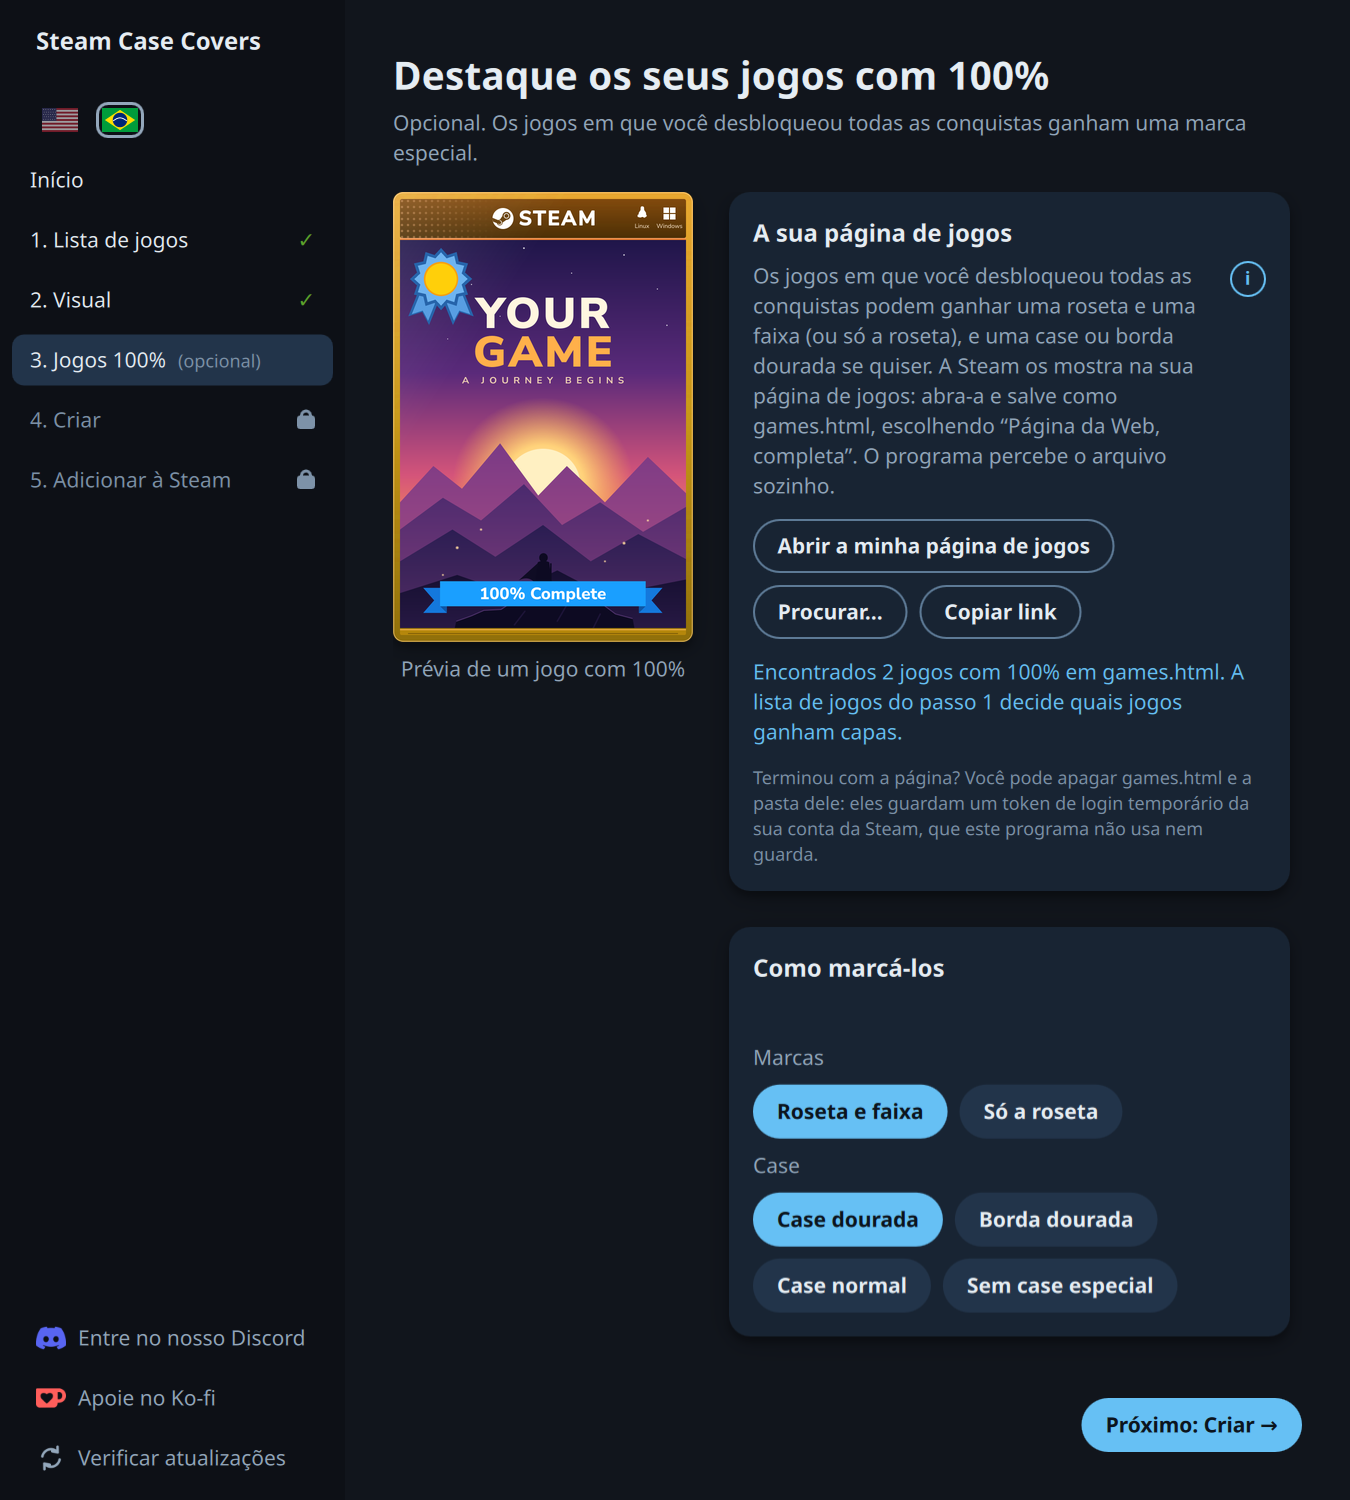
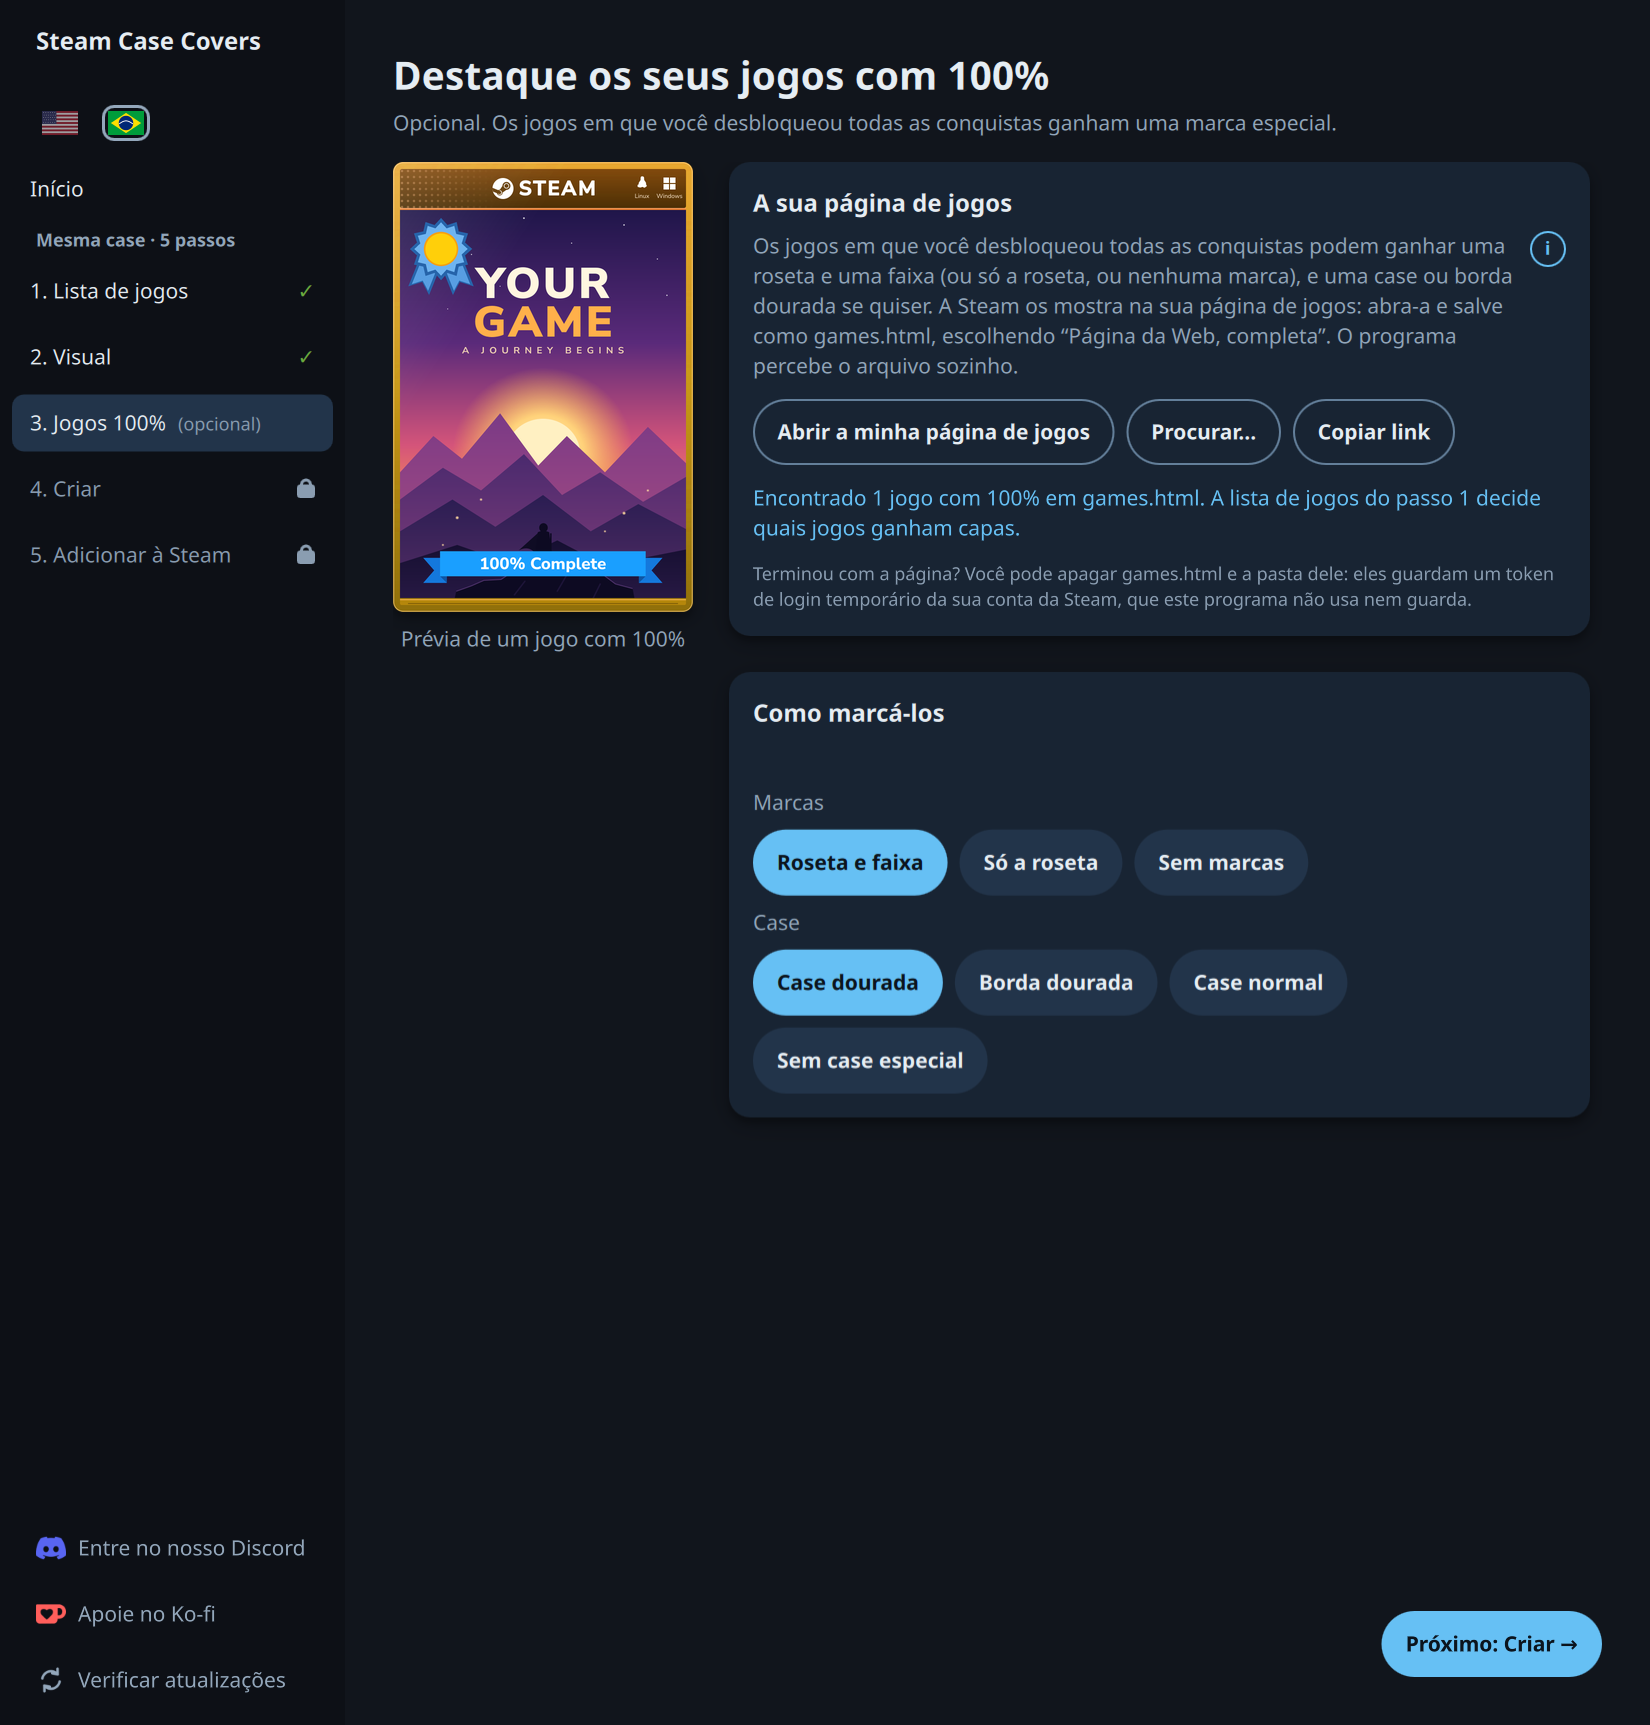
docs: new README screenshots in both languages, and the README text brought up to date (#54)
* feat(tools): a script that takes the README screenshots, with a test that it still runs

* docs: qtui/README.md says what is true now, the features line names touch and contrast

* fix(tools): the Home picture is the first-time Home, the case pictures are wide and tall enough

* fix(tools): take Home and Look in both languages before the 100% step loads a page

* fix(tools): the script checks the state before each picture, and the games page is kept out of the watched folder

* docs: new README screenshots in both languages, with alt text that matches them

diff --git a/tools/take_screenshots.py b/tools/take_screenshots.py
@@ -1,0 +1,143 @@
+#!/usr/bin/env python3
+# SPDX-License-Identifier: GPL-3.0-or-later
+# Copyright (C) 2026 Diego Bergonsi. Part of steam-case-covers: https://github.com/diegobergonsi/steam-case-covers
+"""Takes the screenshots of the README: Home, Look, 100% games and Pick a case, in English and in Brazilian Portuguese (eight images).
+
+Run it on a desktop, in a real session (a window must be shown; the offscreen platform does not draw the pages):
+
+    python tools/take_screenshots.py OUT_DIR
+
+Nothing real is touched: a fake home folder, a fake Steam account called "Player" and three made-up games, so the pictures never show a real account name.
+The files are named like the ones in `assets/` (`screenshot-home.png`, `screenshot-home-pt.png`, ...). Look at every picture before using it."""
+import argparse
+import os
+import sys
+import tempfile
+import time
+
+ROOT = os.path.dirname(os.path.dirname(os.path.abspath(__file__)))
+GAMES = {1: "Hades", 2: "Forza Horizon 5", 3: "God of War"}            # made-up library: the covers are the sample art
+PAGE = {1: (3, 3), 2: (1, 4)}                                            # the games page: game 1 at 100%, game 2 only started
+SIZES = {"home": (900, 900), "look": (900, 900), "100": (1100, 1150), "cases": (1100, 1150)}      # window size in points; the picture is this times the scale
+LANGUAGES = (("en", ""), ("pt-BR", "-pt"))
+
+
+def write_games_page(folder):
+    """A saved games page with a row per game in PAGE (the same shape as tests/fixtures/games_page.html)."""
+    rows = []
+    for appid, (unlocked, total) in PAGE.items():
+        store = '<a href="https://store.steampowered.com/app/%d"' % appid
+        rows.append('<div class="row">\n  %s class="img"></a>\n  %s class="name">Game</a>\n'
+                    '  <a class="ach" href="https://steamcommunity.com/id/playerone/achievements/%d">ACHIEVEMENTS</a><span class="cnt">%d/%d</span>\n</div>\n'
+                    % (store, store, appid, unlocked, total))
+    path = os.path.join(folder, "games.html")
+    with open(path, "w", encoding="utf-8") as f:
+        f.write('<!DOCTYPE html>\n<html><body><div class="list">\n' + "".join(rows) + "</div></body></html>\n")
+    return path
+
+
+def main(argv=None):
+    ap = argparse.ArgumentParser(description="Take the README screenshots (see the top of this file).")
+    ap.add_argument("out", help="the folder the eight pictures are written to")
+    ap.add_argument("--scale", default="1.5", help="how much bigger than the window the pictures are (the README ones use 1.5)")
+    args = ap.parse_args(argv)
+    os.makedirs(args.out, exist_ok=True)
+
+    home = tempfile.mkdtemp(prefix="steamcase-shots-")                      # nothing of the real account or the real Steam folder is read
+    for key in ("HOME", "USERPROFILE", "XDG_CONFIG_HOME", "XDG_DATA_HOME"):
+        os.environ[key] = home
+    os.environ["QT_SCALE_FACTOR"] = args.scale
+    sys.path.insert(0, ROOT)
+
+    from unittest import mock
+    from PySide6.QtCore import QCoreApplication
+    from PySide6.QtGui import QGuiApplication
+    from engine import steamcase as sc
+    from qtui.app import create_engine
+    from qtui.shell import Shell
+
+    app = QGuiApplication(sys.argv[:1])
+    downloads = os.path.join(home, "Downloads")
+    os.makedirs(downloads)
+    for name, value in (("steam_dir", lambda: home), ("steam_running", lambda: False), ("list_accounts", lambda steam: [("111", "Player")]),
+                        ("pick_account", lambda steam, forced=None: forced or "111"), ("account_label", lambda steam, acc: "Player"),
+                        ("list_backups", lambda steam, user=None: []), ("find_our_covers", lambda steam, user=None, progress=None, cancelled=None: []),
+                        ("find_other_art", lambda steam, user=None, ours=(): ([], [])), ("grid_dir", lambda steam, user=None: home),
+                        ("load_library", lambda steam, lib: (dict.fromkeys(GAMES), set())),
+                        ("store_items", lambda ids, log=None, cancelled=None, errors=None: {i: {"type": 0, "name": GAMES[i]} for i in ids if i in GAMES})):
+        mock.patch.object(sc, name, value).start()
+    shell = Shell(os.path.join(home, "settings.json"), downloads=downloads, covers_dir=os.path.join(home, "covers"))
+    shell.reduceEffects = True                                              # no animation: a screen is ready the moment it is shown
+    shell.library.installedOnly = True                                      # the steps after the game list are open
+    engine = create_engine(shell)
+    root = engine.rootObjects()[0]
+    root.setProperty("minimumHeight", 0)
+
+    def settle(seconds=1.0):
+        end = time.time() + seconds
+        while time.time() < end:
+            QCoreApplication.processEvents()
+            time.sleep(0.02)
+
+    def expect(condition, what):
+        """The picture shows the state it is meant to show, or the run stops: a picture of the wrong state would only be found by looking."""
+        if not condition:
+            raise SystemExit("not ready for the picture: " + what)
+
+    def shot(screen, suffix):
+        width, height = SIZES[screen]
+        root.setWidth(width)
+        root.setHeight(height)
+        root.show()
+        settle()
+        path = os.path.join(args.out, "screenshot-%s%s.png" % (screen, suffix))
+        if not root.grabWindow().save(path):
+            raise SystemExit("could not write " + path)
+        print(path)
+
+    page_folder = os.path.join(home, "page")                                 # not Downloads: the window watches that folder and would load the page by itself
+    os.makedirs(page_folder)
+    page = write_games_page(page_folder)
+    for code, suffix in LANGUAGES:                                          # Home and Look first, in both languages: the 100% step loads a games page, which Look would show
+        shell.setLanguage(code)
+        shell.library.installedOnly = False                                 # nothing done yet, so Home is the first-time Home
+        shell.setFact("look_done", False)
+        shell.go(0)
+        expect(not shell.returning, "Home is not the first-time Home")
+        shot("home", suffix)
+        shell.library.installedOnly = True                                  # the steps after the game list are open
+        shell.go(shell.stepIndex("look"))
+        expect(shell.flow == "natural" and not shell.hundred.loaded, "Look would show a games page or the wrong way")
+        expect(shell.steps[shell.stepIndex("look")]["state"] == "active", "Look is not the current step")
+        shot("look", suffix)
+    for code, suffix in LANGUAGES:
+        shell.setLanguage(code)
+        shell.startPath("natural")
+        shell.setFact("look_done", True)
+        shell.go(shell.stepIndex("hundred"))
+        shell.hundred.loadPage(page)
+        end = time.time() + 10
+        while shell.hundred.busy and time.time() < end:
+            QCoreApplication.processEvents()
+        shell.hundred.style = "gold-case"
+        expect(shell.hundred.loaded and shell.hundred.count == 1 and shell.hundred.style == "gold-case", "the games page is not loaded with one game at 100%")
+        expect(shell.steps[shell.stepIndex("hundred")]["state"] == "active", "100% games is not the current step")
+        shot("100", suffix)
+        shell.startPath("manual")                                           # the other way: pick games, then a case for them
+        shell.picker.clearAll()
+        shell.picker.load()
+        end = time.time() + 10
+        while shell.picker.loading and time.time() < end:
+            QCoreApplication.processEvents()
+        shell.picker.toggle(2)
+        shell.picker.toggle(3)
+        shell.go(shell.stepIndex("case"))
+        shell.cases.pick("ps5")
+        expect(shell.flow == "manual" and shell.picker.selectedCount == 2 and shell.cases.groupName == "PlayStation 5", "two games are not ticked with a case chosen")
+        expect(shell.steps[shell.stepIndex("case")]["state"] == "active", "Case is not the current step")
+        shot("cases", suffix)
+    return 0
+
+
+if __name__ == "__main__":
+    sys.exit(main())

diff --git a/tests/test_screenshots.py b/tests/test_screenshots.py
@@ -1,0 +1,39 @@
+# SPDX-License-Identifier: GPL-3.0-or-later
+# Copyright (C) 2026 Diego Bergonsi. Part of steam-case-covers: https://github.com/diegobergonsi/steam-case-covers
+"""tools/take_screenshots.py still runs: it drives the window through the four screens in both languages, so a renamed property or screen would break it silently.
+It runs here on the offscreen platform (the pages are not drawn there, so only the files and their sizes are checked; a person looks at the pictures)."""
+import os
+import subprocess
+import sys
+import tempfile
+import unittest
+
+try:
+    from PySide6.QtGui import QGuiApplication
+except ImportError:
+    QGuiApplication = None
+need_qt = unittest.skipIf(QGuiApplication is None, "PySide6 missing")
+
+ROOT = os.path.dirname(os.path.dirname(os.path.abspath(__file__)))
+
+
+@need_qt
+class ScreenshotScript(unittest.TestCase):
+    def test_it_writes_the_eight_pictures_of_the_readme_and_leaves_the_real_home_alone(self):
+        from PIL import Image
+        out = tempfile.mkdtemp()
+        env = dict(os.environ, QT_QPA_PLATFORM="offscreen")
+        run = subprocess.run([sys.executable, os.path.join(ROOT, "tools", "take_screenshots.py"), out, "--scale", "1"], env=env, capture_output=True, text=True, timeout=120)
+        self.assertEqual(run.returncode, 0, run.stderr[-600:])
+        sizes = {"home": (900, 900), "look": (900, 900), "100": (1100, 1150), "cases": (1100, 1150)}
+        for screen, size in sizes.items():
+            for suffix in ("", "-pt"):
+                path = os.path.join(out, "screenshot-%s%s.png" % (screen, suffix))
+                self.assertTrue(os.path.exists(path), path)
+                with Image.open(path) as picture:
+                    self.assertEqual(picture.size, size, path)
+        self.assertEqual(sorted(os.listdir(out)), sorted("screenshot-%s%s.png" % (s, x) for s in sizes for x in ("", "-pt")))
+
+
+if __name__ == "__main__":
+    unittest.main()

diff --git a/README.pt-BR.md b/README.pt-BR.md
@@ -33,12 +33,12 @@
 
 <table align="center">
   <tr>
-    <td align="center"><a href="https://github.com/diegobergonsi/steam-case-covers/raw/main/assets/screenshot-home-pt.png"><img src="assets/screenshot-home-pt.png" width="380" alt="Início: os passos à esquerda com as bandeiras de idioma, Escolher jogos à mão e a seção Desfazer"></a><br><sub>Início</sub></td>
+    <td align="center"><a href="https://github.com/diegobergonsi/steam-case-covers/raw/main/assets/screenshot-home-pt.png"><img src="assets/screenshot-home-pt.png" width="380" alt="Início, na primeira vez: dois cartões, a mesma case para todos os jogos da sua lista e Escolha os jogos e as cases, com os passos à esquerda e as bandeiras de idioma"></a><br><sub>Início</sub></td>
     <td align="center"><a href="https://github.com/diegobergonsi/steam-case-covers/raw/main/assets/screenshot-look-pt.png"><img src="assets/screenshot-look-pt.png" width="380" alt="O passo Visual: uma prévia da case e as opções de cor"></a><br><sub>1. Escolha o visual</sub></td>
   </tr>
   <tr>
     <td align="center"><a href="https://github.com/diegobergonsi/steam-case-covers/raw/main/assets/screenshot-100-pt.png"><img src="assets/screenshot-100-pt.png" width="380" alt="O passo Jogos 100%: uma case dourada com roseta e faixa, e as opções para marcar esses jogos"></a><br><sub>2. Destaque os seus jogos com 100%</sub></td>
-    <td align="center"><a href="https://github.com/diegobergonsi/steam-case-covers/raw/main/assets/screenshot-cases-pt.png"><img src="assets/screenshot-cases-pt.png" width="380" alt="Escolha uma case: a case da Steam e as de PlayStation, Xbox e Nintendo, cada uma com o seu visual"></a><br><sub>3. Ou escolha uma case de console à mão</sub></td>
+    <td align="center"><a href="https://github.com/diegobergonsi/steam-case-covers/raw/main/assets/screenshot-cases-pt.png"><img src="assets/screenshot-cases-pt.png" width="380" alt="Escolha uma case: a case da Steam, as de PlayStation, Xbox e Nintendo e uma case sua, com uma prévia da case escolhida"></a><br><sub>3. Ou escolha uma case de console à mão</sub></td>
   </tr>
 </table>
 
@@ -211,7 +211,7 @@ Bom saber:
 - Várias contas da Steam num computador: você escolhe qual recebe as capas
 
 **O programa em si**
-- Funciona com o teclado, ajusta-se a telas de alta resolução e cabe em telas pequenas como a do Steam Deck
+- Funciona com o teclado, ajusta-se a telas de alta resolução e cabe em telas pequenas como a do Steam Deck; botões e controles têm tamanho de dedo (44 px) para telas de toque, e as cores seguem a regra de contraste recomendada (WCAG 2.2 nível AA)
 - Inglês e português do Brasil: o programa começa no idioma do seu sistema, e duas bandeirinhas embaixo do nome trocam o idioma quando você quiser (a linha de comando continua em inglês)
 - Um botão "Verificar atualizações", só quando você clica: ele pergunta ao GitHub qual é a versão mais nova e nunca baixa nem instala nada
 - Software livre: sem anúncios, sem conta, sem telemetria

diff --git a/README.md b/README.md
@@ -33,12 +33,12 @@
 
 <table align="center">
   <tr>
-    <td align="center"><a href="https://github.com/diegobergonsi/steam-case-covers/raw/main/assets/screenshot-home.png"><img src="assets/screenshot-home.png" width="380" alt="Home: the steps on the left with the language flags, Pick games by hand, and the Undo section"></a><br><sub>Home</sub></td>
+    <td align="center"><a href="https://github.com/diegobergonsi/steam-case-covers/raw/main/assets/screenshot-home.png"><img src="assets/screenshot-home.png" width="380" alt="Home the first time: two cards, the same case for every game on your list and Pick games, choose their cases, with the steps on the left and the language flags"></a><br><sub>Home</sub></td>
     <td align="center"><a href="https://github.com/diegobergonsi/steam-case-covers/raw/main/assets/screenshot-look.png"><img src="assets/screenshot-look.png" width="380" alt="The Look step: a preview of the case and the colour choices"></a><br><sub>1. Choose the look</sub></td>
   </tr>
   <tr>
     <td align="center"><a href="https://github.com/diegobergonsi/steam-case-covers/raw/main/assets/screenshot-100.png"><img src="assets/screenshot-100.png" width="380" alt="The 100% games step: a gold case with a rosette and ribbon, and the choices to mark those games"></a><br><sub>2. Highlight your 100% games</sub></td>
-    <td align="center"><a href="https://github.com/diegobergonsi/steam-case-covers/raw/main/assets/screenshot-cases.png"><img src="assets/screenshot-cases.png" width="380" alt="Pick a case: the Steam case and the PlayStation, Xbox and Nintendo cases, each with its own look"></a><br><sub>3. Or pick a console case by hand</sub></td>
+    <td align="center"><a href="https://github.com/diegobergonsi/steam-case-covers/raw/main/assets/screenshot-cases.png"><img src="assets/screenshot-cases.png" width="380" alt="Pick a case: the Steam case, the PlayStation, Xbox and Nintendo cases and a case of your own, with a preview of the case you picked"></a><br><sub>3. Or pick a console case by hand</sub></td>
   </tr>
 </table>
 
@@ -211,7 +211,7 @@ Good to know:
 - Several Steam accounts on one computer: you choose which one gets the covers
 
 **The app itself**
-- Works with the keyboard, scales on high-DPI screens and fits small screens like the Steam Deck's
+- Works with the keyboard, scales on high-DPI screens and fits small screens like the Steam Deck's; buttons and controls are finger-sized (44 px) for a touchscreen, and the colours follow the recommended contrast rule (WCAG 2.2 level AA)
 - English and Brazilian Portuguese: the app starts in your system's language, and two small flags under the name switch it at any time (the command line stays in English; this README is also in [Brazilian Portuguese](README.pt-BR.md))
 - A "Check for updates" button, only when you click it: it asks GitHub for the newest version and never downloads or installs anything
 - Free software: no ads, no account, no telemetry

diff --git a/qtui/README.md b/qtui/README.md
@@ -1,10 +1,10 @@
 # qtui: the window of the app
 
-The window of the app, in Qt Quick. Not finished: Home and steps 1 to 5 work (game list, look, 100% games, make, add to Steam, plus Restore, Reset, update check and Discord); the final checks on Windows and macOS are left. The engine (`steamcase.py`) is shared and unchanged.
+The window of the app, in Qt Quick: Home, then the steps of the way you choose (game list, look, 100% games, make, add to Steam, or the way that picks games by hand), plus Restore, Reset, the update check and the link to Discord. The engine (`engine/`, run with `python -m engine`) is shared with the command line.
 
     python -m pip install -r requirements-qt.txt      # Python 3.10 or newer
     python -m qtui                                    # the window
     python -m qtui --selftest                         # builds it without showing it; prints "selftest ok"
     pyinstaller steamcase-qt.spec                     # one file (Windows, Linux) or an .app folder (macOS)
 
-The rules the screens follow are in `docs/ui-guide.md`. Colours, sizes and durations live only in `qtui/qml/Theme.qml`.
+The rules the screens follow are in `docs/ui-guide.md`. Colours, sizes and durations live only in `qtui/qml/Theme.qml`. The pictures of the README are taken with `python tools/take_screenshots.py OUT_DIR`.
